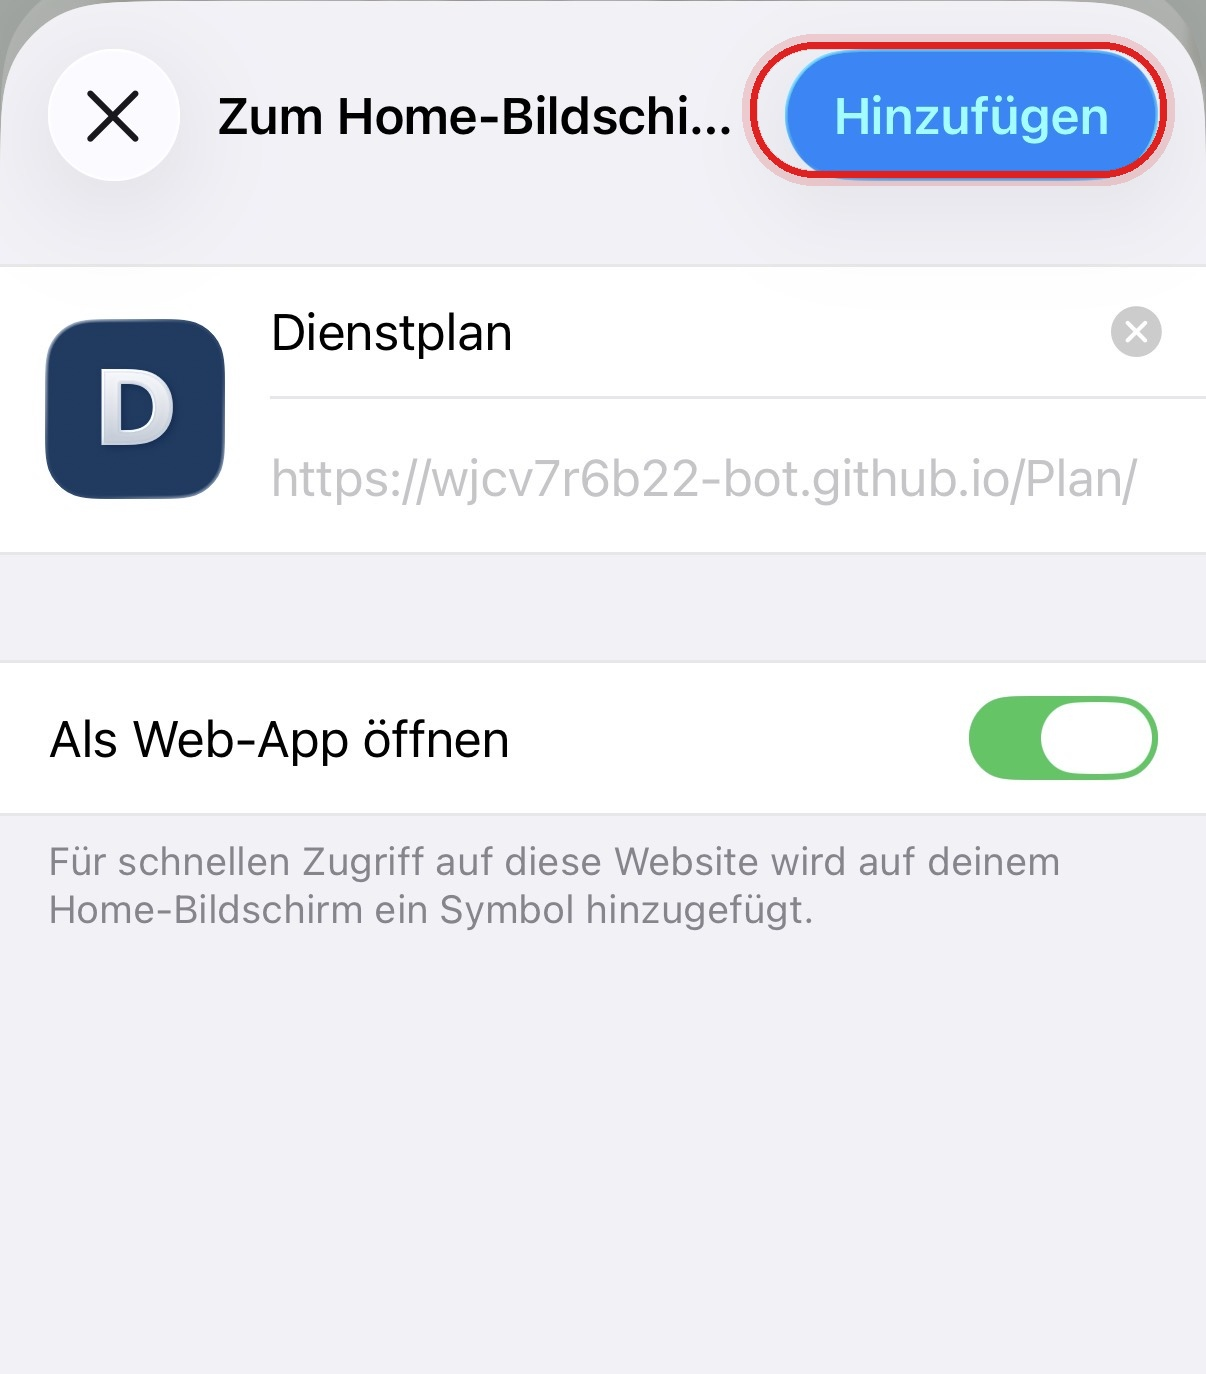
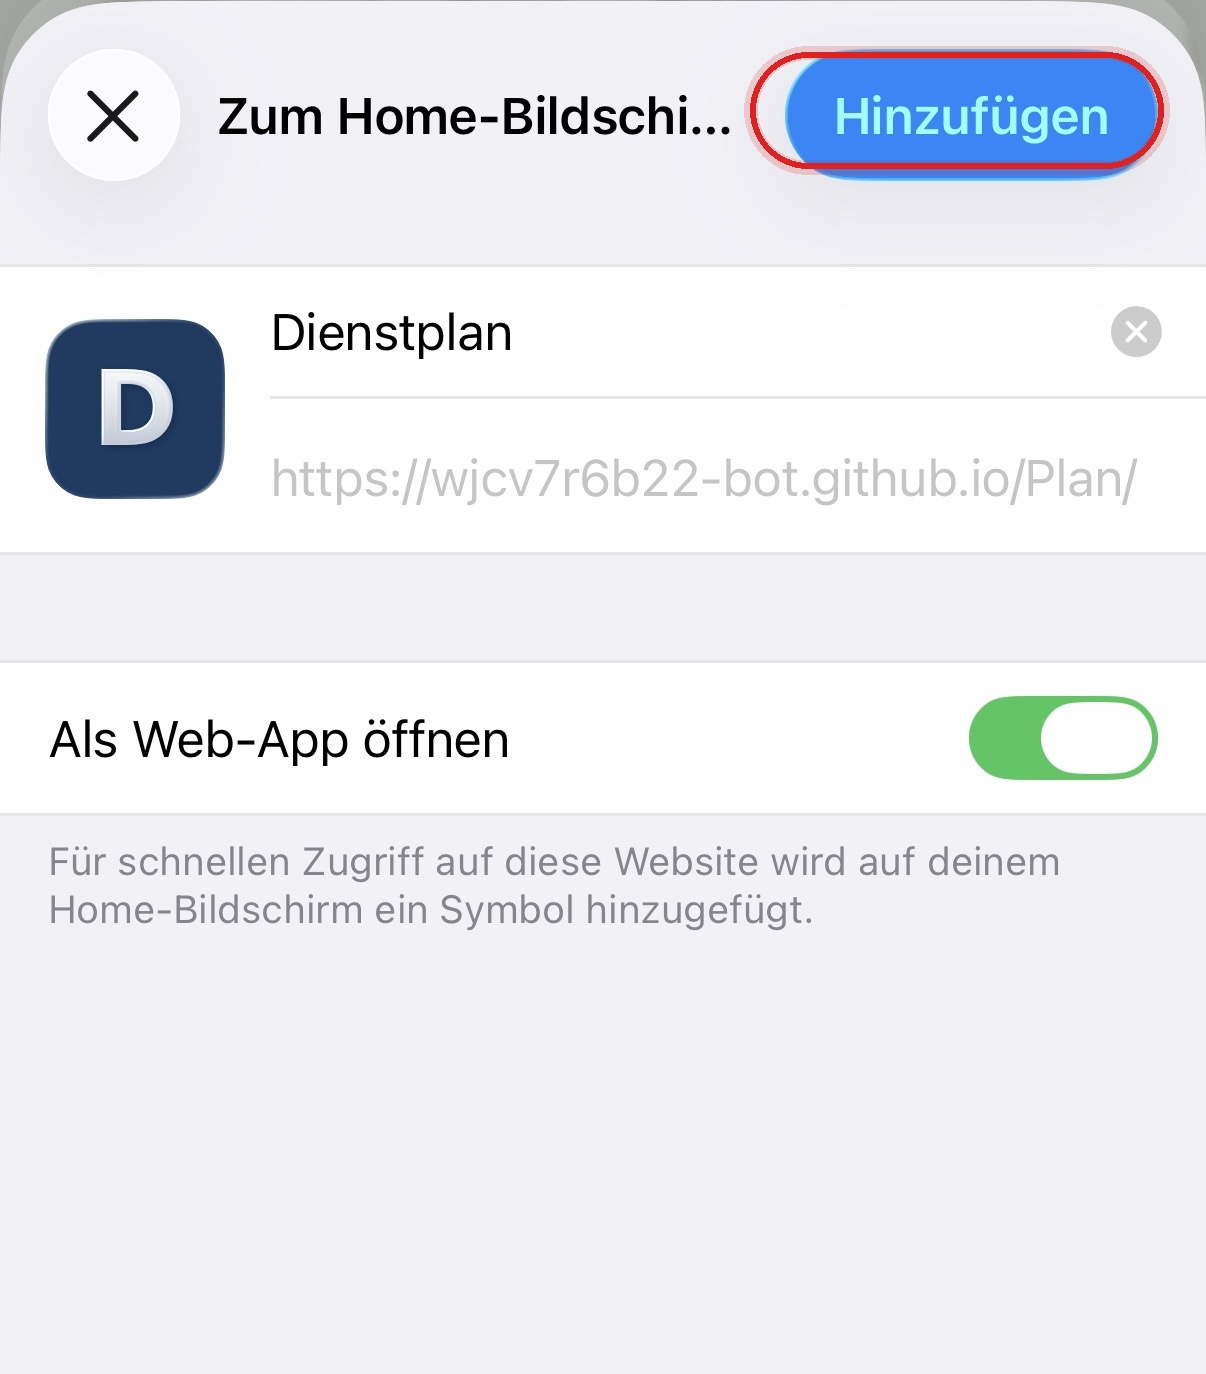
V19

Changed region(s): [[0.6136, 0.0, 0.9818, 0.1528]]

diff --git a/sw.js b/sw.js
@@ -1,1 +1,1 @@
-const CACHE="dienstplan-v18-ios-step4-uniform";const FILES=["./","./index.html","./styles.css","./app.js","./manifest.webmanifest","./icon-180.png","./icon-192.png","./icon-512.png","./safari-teilen-leiste.jpeg"];self.addEventListener("install",e=>e.waitUntil(caches.open(CACHE).then(c=>c.addAll(FILES)).then(()=>self.skipWaiting())));self.addEventListener("activate",e=>e.waitUntil(caches.keys().then(k=>Promise.all(k.filter(x=>x!==CACHE).map(x=>caches.delete(x)))).then(()=>self.clients.claim())));self.addEventListener("fetch",e=>{if(e.request.method!=="GET")return;e.respondWith(fetch(e.request,{cache:"no-store"}).then(r=>{let x=r.clone();caches.open(CACHE).then(c=>c.put(e.request,x));return r}).catch(()=>caches.match(e.request).then(r=>r||caches.match("./index.html"))))});
+const CACHE="dienstplan-v19-ios-step4-button-fit";const FILES=["./","./index.html","./styles.css","./app.js","./manifest.webmanifest","./icon-180.png","./icon-192.png","./icon-512.png","./safari-teilen-leiste.jpeg"];self.addEventListener("install",e=>e.waitUntil(caches.open(CACHE).then(c=>c.addAll(FILES)).then(()=>self.skipWaiting())));self.addEventListener("activate",e=>e.waitUntil(caches.keys().then(k=>Promise.all(k.filter(x=>x!==CACHE).map(x=>caches.delete(x)))).then(()=>self.clients.claim())));self.addEventListener("fetch",e=>{if(e.request.method!=="GET")return;e.respondWith(fetch(e.request,{cache:"no-store"}).then(r=>{let x=r.clone();caches.open(CACHE).then(c=>c.put(e.request,x));return r}).catch(()=>caches.match(e.request).then(r=>r||caches.match("./index.html"))))});
